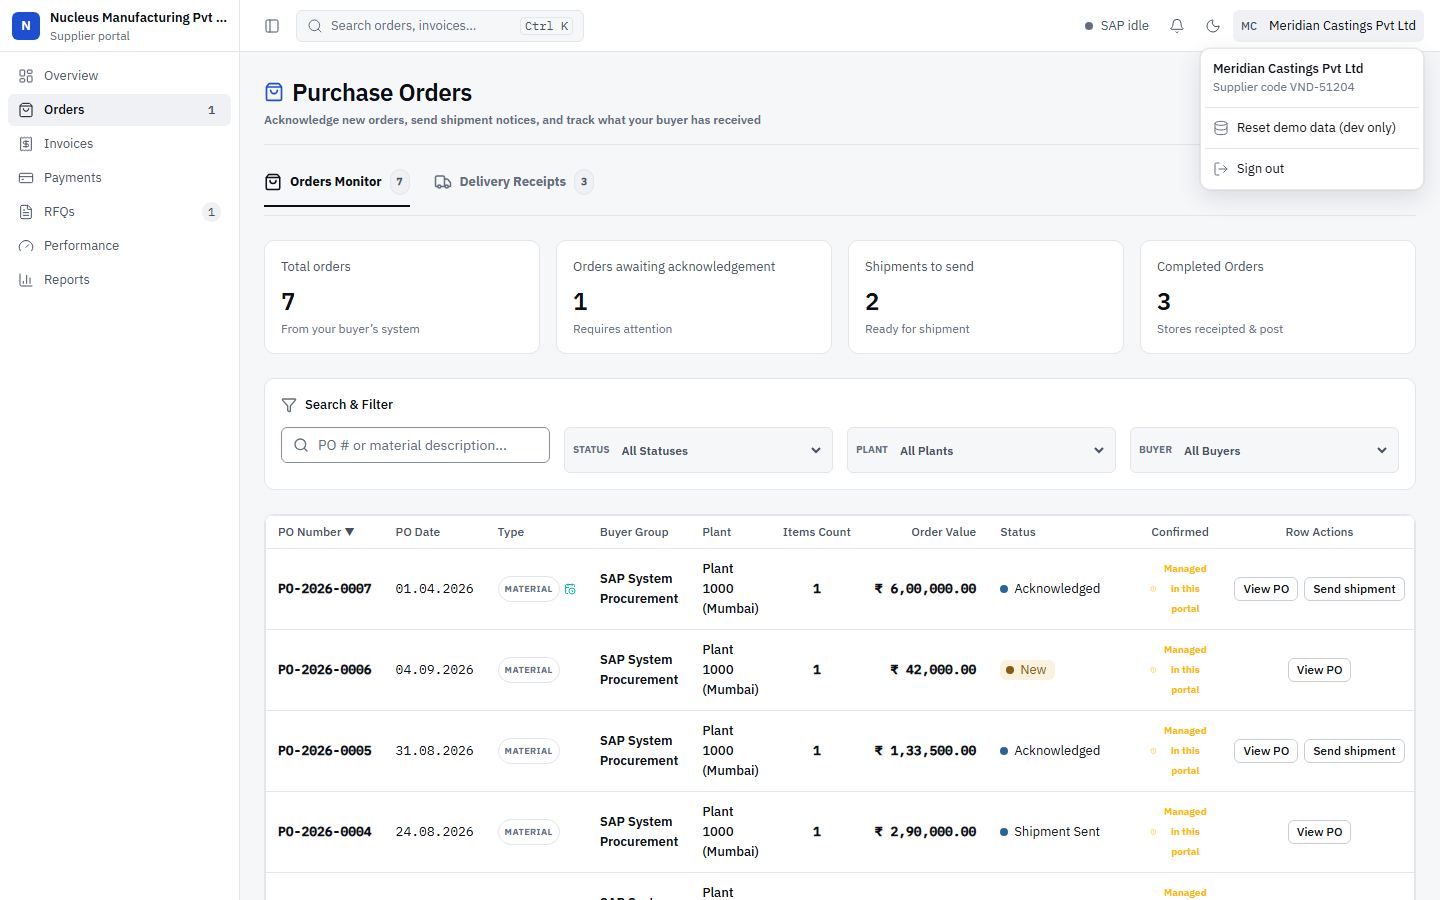
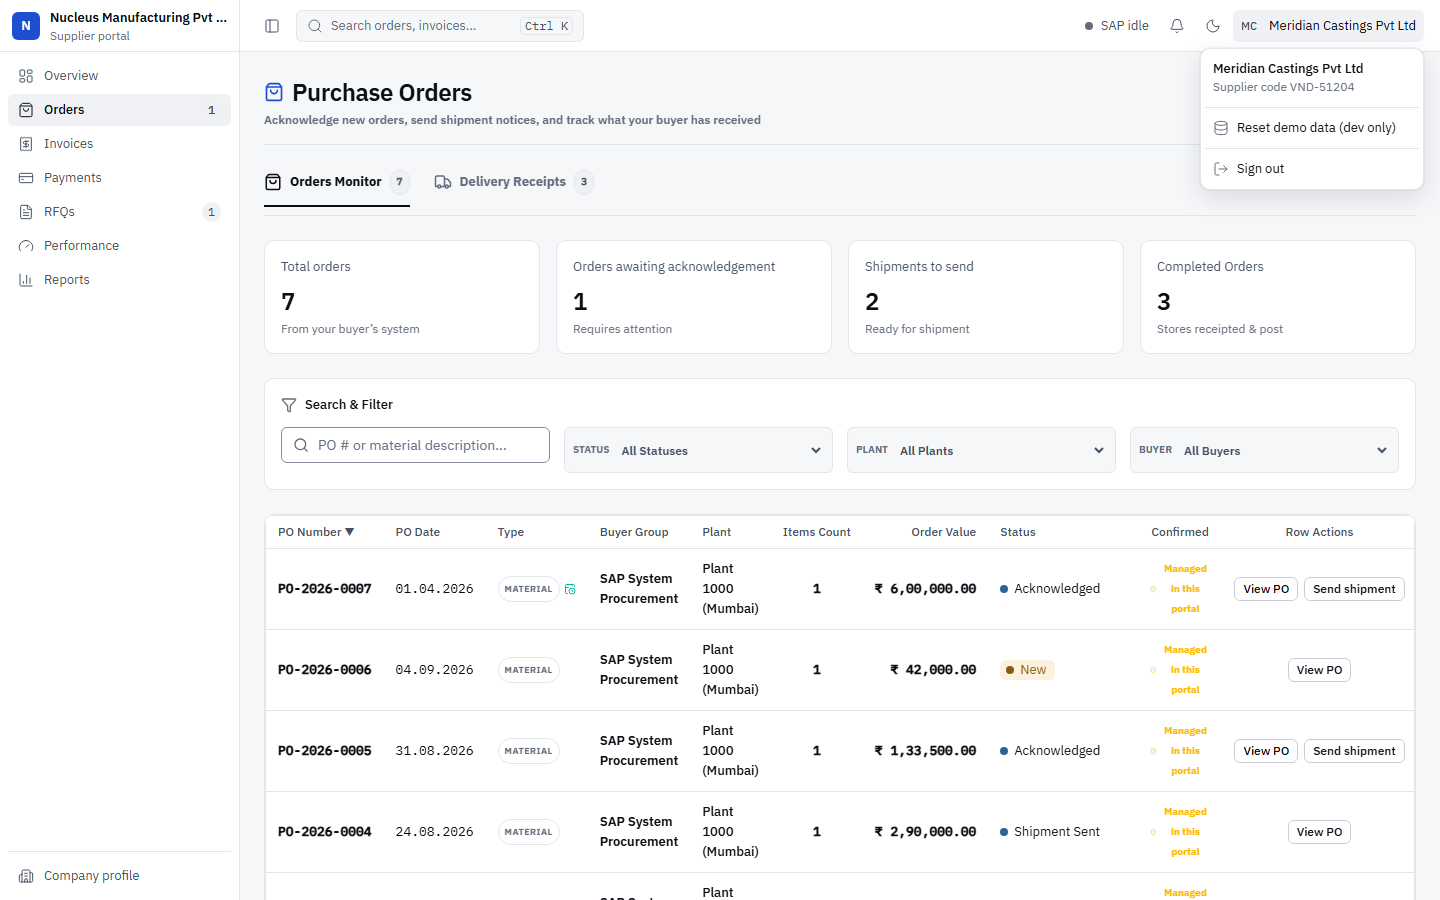
feat(nav): keep Company profile in the nav for approved suppliers
Product decision: approved suppliers keep the registration module as their company profile (bank details, documents, the approved record). modulesFor no longer drops it; onboarding suppliers still see only registration. The test that pinned the old rule now asserts the new one.

diff --git a/src/lib/onboarding.js b/src/lib/onboarding.js
@@ -20,22 +20,19 @@ export const ONBOARDING_MODULE = 'registration';
 export const isOnboarding = (profile) =>
   Boolean(profile?.status) && PRE_SUBMISSION_STATUSES.includes(profile.status);
 
-// True once a supplier's vendor master exists in SAP — the registration
-// module has nothing left to offer them at that point, so it drops out of
-// the nav. This is a display rule only, not an access gate: the route still
-// renders (it shows the approved record), unlike the pre-submission modules
-// the server actually refuses.
+// True once a supplier's vendor master exists in SAP.
 export const isRegistrationComplete = (profile) => profile?.status === 'Approved';
 
 // The modules to show. Suppliers mid-onboarding get the registration tab alone;
-// suppliers already approved lose it, since there is nothing left to do there;
-// everyone else — including all tenant staff — gets the full list.
+// everyone else — approved suppliers and all tenant staff — gets the full list.
+//
+// Approved suppliers used to lose the registration tab ("nothing left to do
+// there"). It stays: it is their company profile — bank details, documents,
+// the record their buyer approved — and the redesign gives it a permanent
+// place at the foot of the sidebar (product decision, 2026-10-16).
 export const modulesFor = (modules, { isSupplier, profile }) => {
   if (isSupplier && isOnboarding(profile)) {
     return modules.filter((item) => item.id === ONBOARDING_MODULE);
-  }
-  if (isSupplier && isRegistrationComplete(profile)) {
-    return modules.filter((item) => item.id !== ONBOARDING_MODULE);
   }
   return modules;
 };

diff --git a/src/lib/onboarding.test.js b/src/lib/onboarding.test.js
@@ -65,9 +65,10 @@ describe('the supplier onboarding gate', () => {
     expect(isRegistrationComplete(undefined)).toBe(false);
   });
 
-  it('drops the registration tab for an approved supplier, keeping everything else', () => {
+  it('keeps the company profile (registration) for an approved supplier, alongside everything else', () => {
     const shown = modulesFor(MODULES, { isSupplier: true, profile: { status: 'Approved' } });
-    expect(shown.map((item) => item.id)).toEqual(MODULES.filter((m) => m.id !== ONBOARDING_MODULE).map((m) => m.id));
+    expect(shown).toEqual(MODULES);
+    expect(shown.map((item) => item.id)).toContain(ONBOARDING_MODULE);
   });
 
   it('never hides the registration tab from tenant staff, approved or not', () => {
